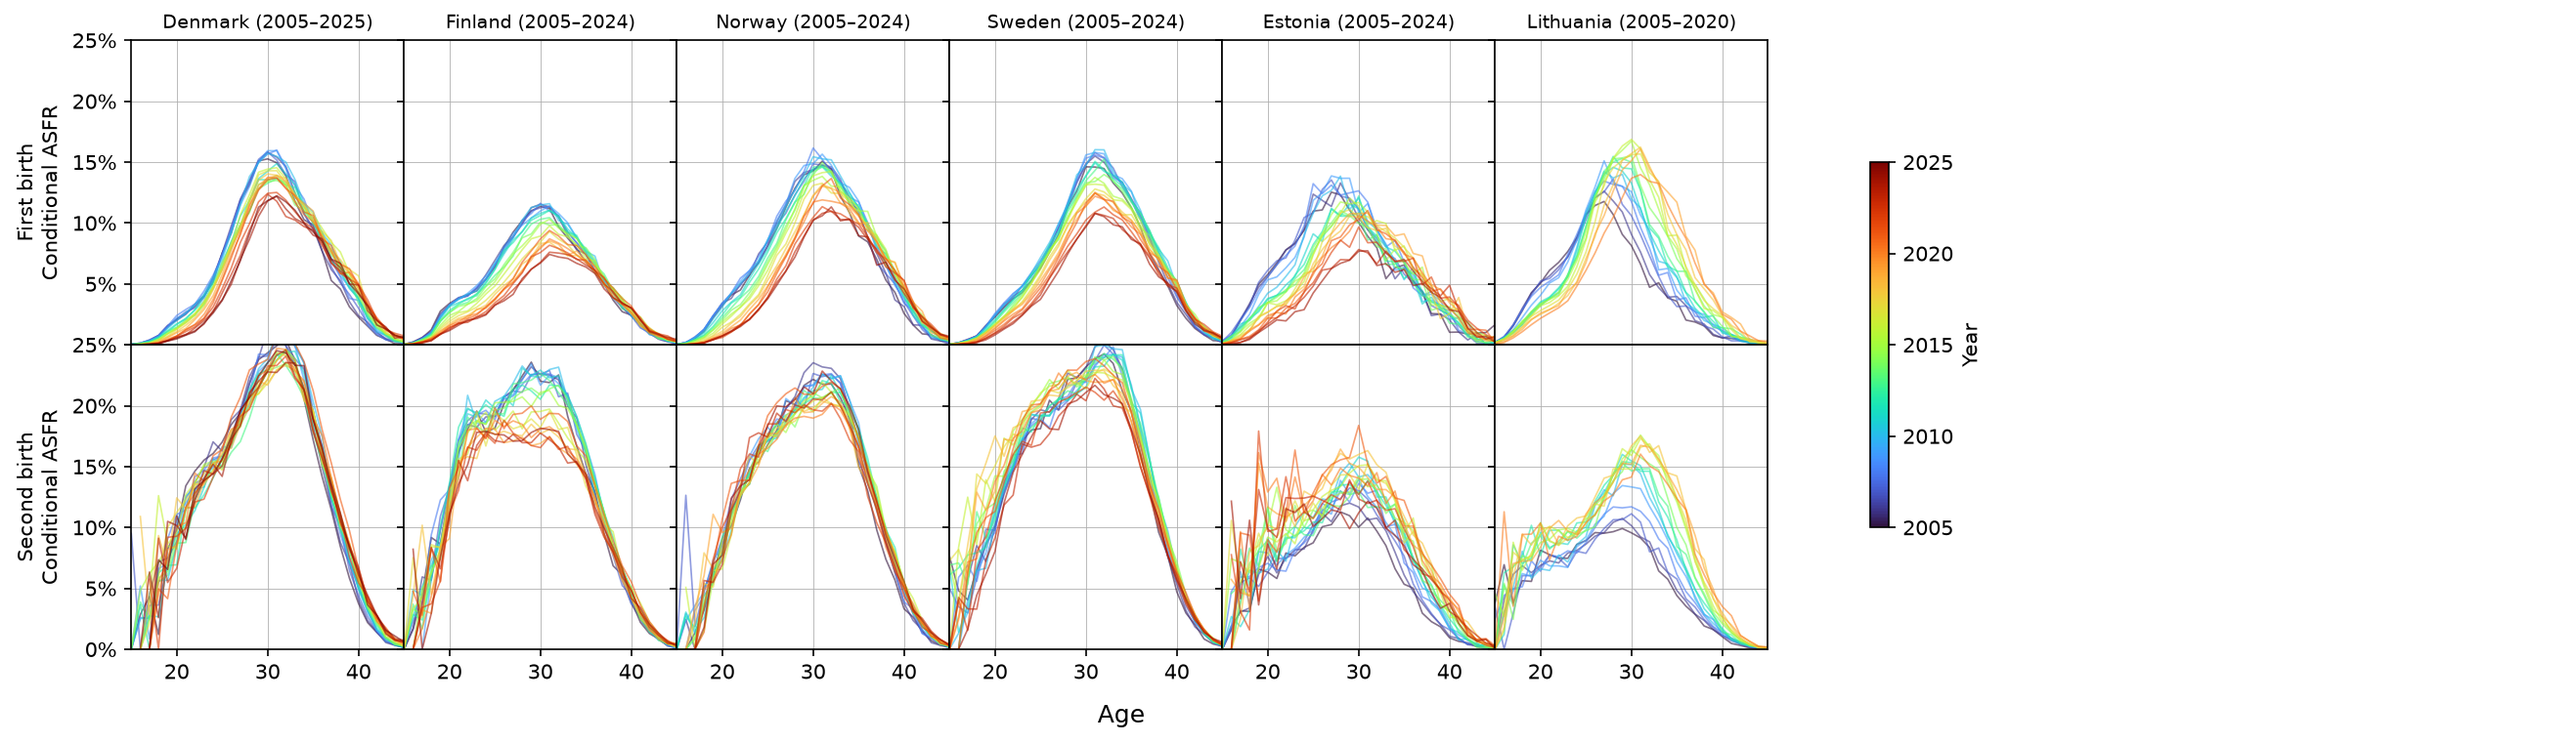
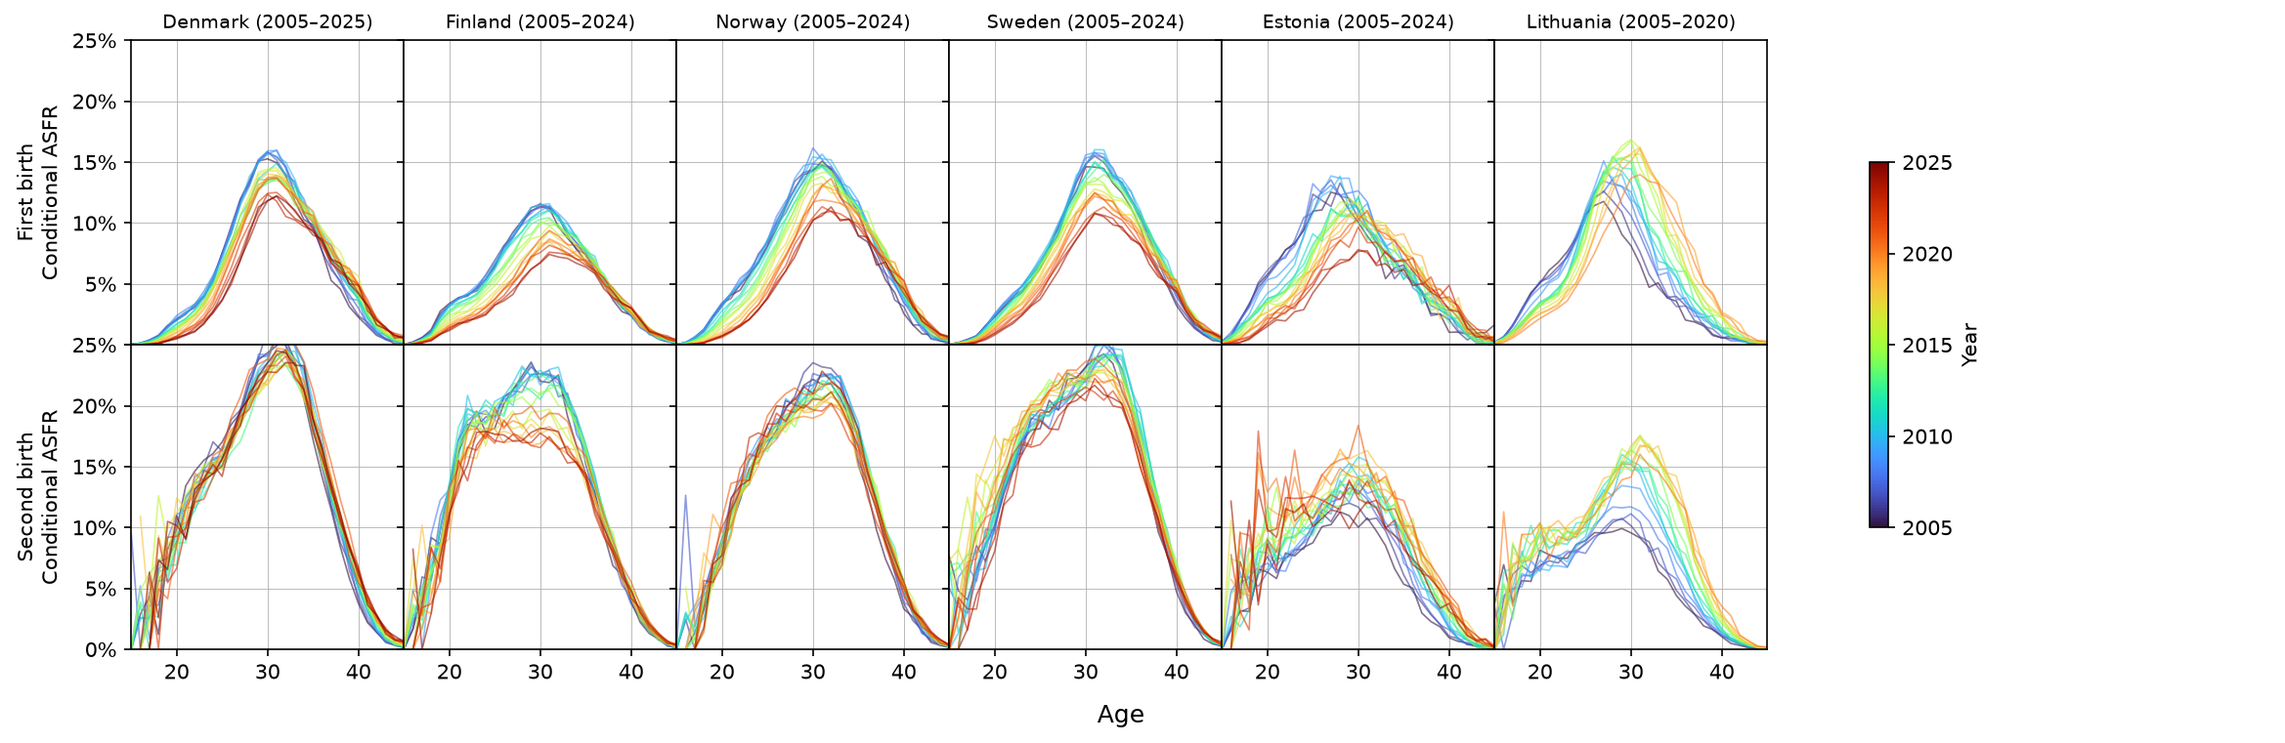
Move Austria/Switzerland into a renamed Central Europe region
Nordic-Baltic-style regrouping: Austria and Switzerland move out of
Western Europe (now Belgium/Ireland/Netherlands/Spain/Portugal/UK)
into the renamed "Central Europe" group (formerly Eastern Europe),
alongside Czechia/Hungary/Slovenia/Bulgaria/Croatia.

diff --git a/HFD/scripts/country_names.py b/HFD/scripts/country_names.py
@@ -60,16 +60,19 @@ COUNTRY_NAMES = {
 # own groups, separate from non-communist countries, even where that breaks
 # from pure geography (e.g. Iberia is split out from the Balkans). The
 # Baltic states are the exception — grouped with the Nordics rather than
-# Eastern Europe, matching how they're commonly discussed together
-# (Nordic-Baltic cooperation) despite their Soviet-era history.
+# Central Europe, matching how they're commonly discussed together
+# (Nordic-Baltic cooperation) despite their Soviet-era history. Austria and
+# Switzerland are grouped with Central Europe rather than Western Europe,
+# for the same "discussed together" reasoning, despite not being
+# former-communist themselves.
 COUNTRY_REGIONS = {
     # Non-Europe
     "Americas & East Asia": ["CAN", "USA", "CHL", "JPN", "KOR", "TWN"],
     # Non-communist, plus the Baltics
     "Nordic & Baltic": ["DNK", "FIN", "NOR", "SWE", "EST", "LTU"],
-    "Western Europe": ["BEL", "IRL", "NLD", "AUT", "CHE", "ESP", "PRT", "UK_ONS"],
-    # Former communist
-    "Eastern Europe": ["CZE", "HUN", "SVN", "BGR", "HRV"],
+    "Western Europe": ["BEL", "IRL", "NLD", "ESP", "PRT", "UK_ONS"],
+    # Former communist, plus Austria and Switzerland
+    "Central Europe": ["AUT", "CHE", "CZE", "HUN", "SVN", "BGR", "HRV"],
 }
 
 _CODE_TO_REGION = {code: region for region, codes in COUNTRY_REGIONS.items() for code in codes}

diff --git a/docs/hfd/first-vs-second-birth.md b/docs/hfd/first-vs-second-birth.md
@@ -25,9 +25,8 @@ England and Wales", Table 3 (percentage of women by number of live-born children
 age and year of birth). Available at
 [ons.gov.uk](https://www.ons.gov.uk/peoplepopulationandcommunity/birthsdeathsandmarriages/conceptionandfertilityrates/datasets/childbearingforwomenbornindifferentyearsreferencetable).
 
-HFD has no conditional-ASFR tables for the UK, so the UK column in the Western Europe
-tab is reconstructed from this data: at each age, the conditional (parity-progression)
+HFD has limited data for the UK, so the UK data is reconstructed from this data: at each age, the conditional (parity-progression)
 rate is estimated as a discrete hazard on the cumulative % of the cohort with at least
 1 / at least 2 children, then re-sliced from cohort into period (calendar) year to
-match HFD's chart convention. See `ONS/scripts/cond_asfr_uk_ons.py`.
+match HFD's chart convention.
 ```
